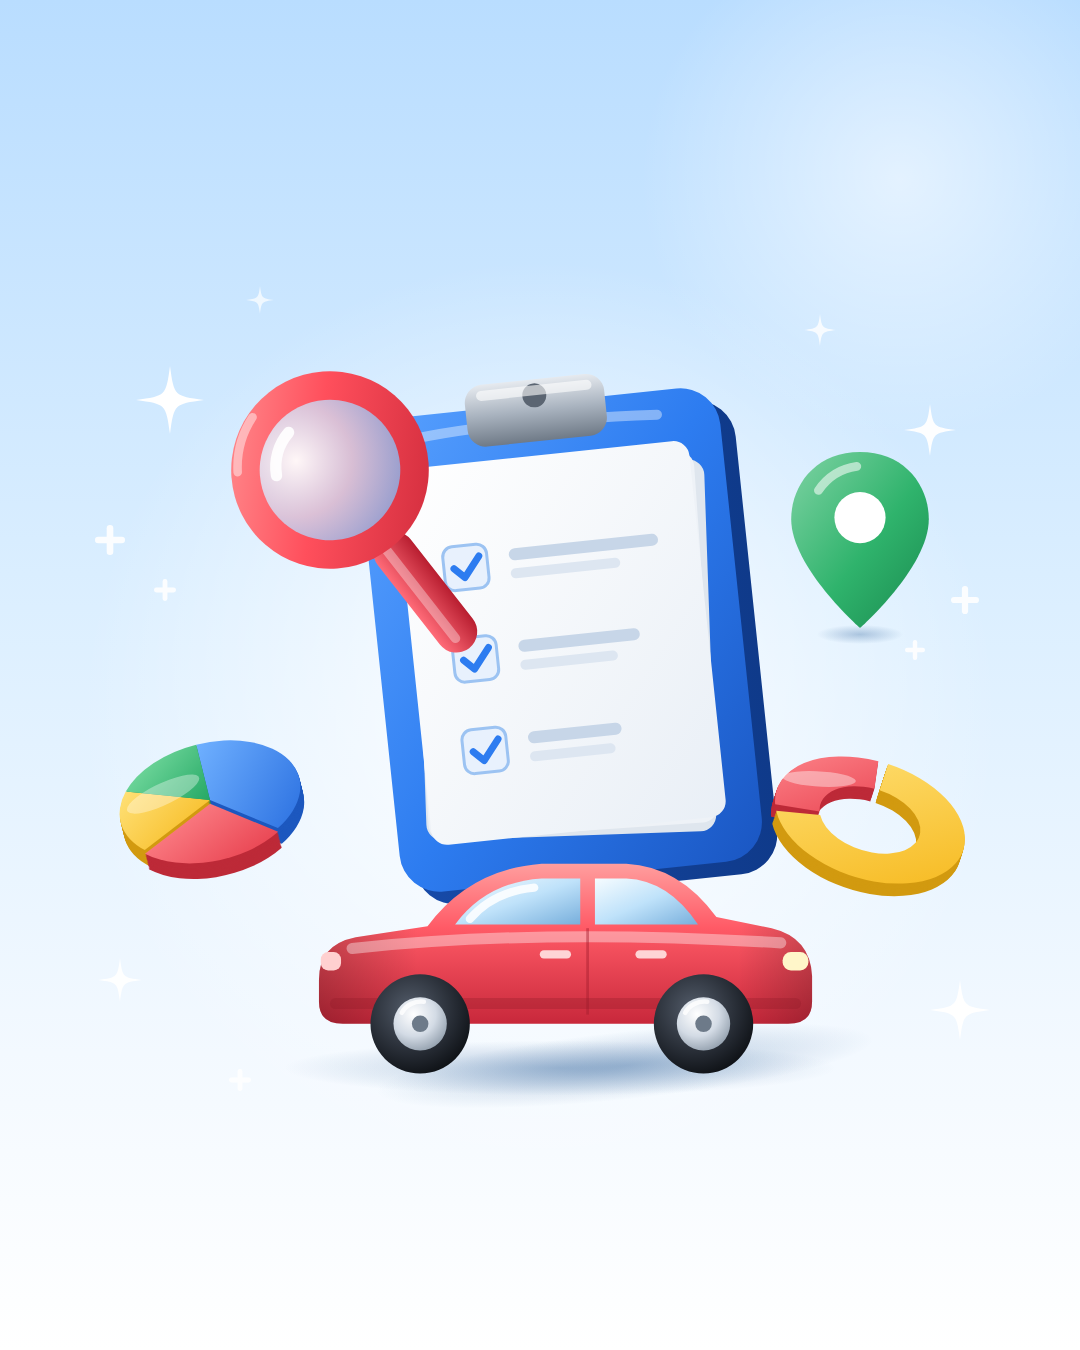
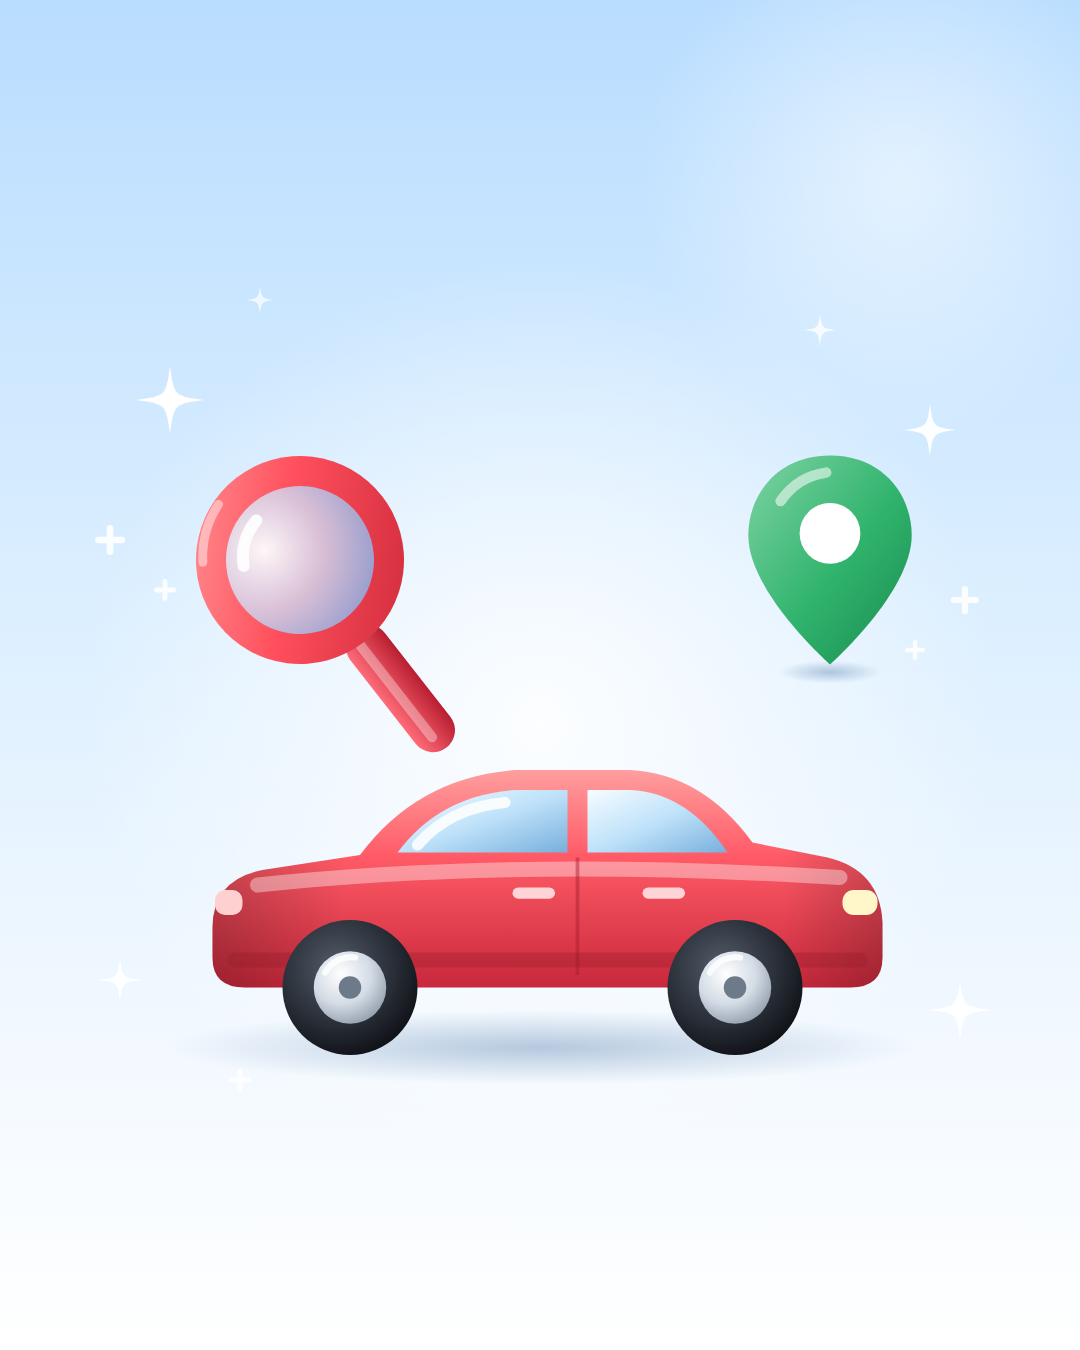
Drop the clipboard and charts from the Instagram background
Claude-Session: https://claude.ai/code/session_01X5FkqyH53P9rnNtyb9SPS8

Changed region(s): [[0.0917, 0.2489, 0.9167, 0.8089]]

diff --git a/insta/bg.html b/insta/bg.html
@@ -45,23 +45,7 @@
 <path d="M0,-34 C4.08,-4.08 4.08,-4.08 34,0 C4.08,4.08 4.08,4.08 0,34 C-4.08,4.08 -4.08,4.08 -34,0 C-4.08,-4.08 -4.08,-4.08 0,-34 Z" fill="#fff" opacity="1" transform="translate(170 400)"/><path d="M0,-26 C3.12,-3.12 3.12,-3.12 26,0 C3.12,3.12 3.12,3.12 0,26 C-3.12,3.12 -3.12,3.12 -26,0 C-3.12,-3.12 -3.12,-3.12 0,-26 Z" fill="#fff" opacity="0.95" transform="translate(930 430)"/><path d="M0,-22 C2.6399999999999997,-2.6399999999999997 2.6399999999999997,-2.6399999999999997 22,0 C2.6399999999999997,2.6399999999999997 2.6399999999999997,2.6399999999999997 0,22 C-2.6399999999999997,2.6399999999999997 -2.6399999999999997,2.6399999999999997 -22,0 C-2.6399999999999997,-2.6399999999999997 -2.6399999999999997,-2.6399999999999997 0,-22 Z" fill="#fff" opacity="0.9" transform="translate(120 980)"/><path d="M0,-30 C3.5999999999999996,-3.5999999999999996 3.5999999999999996,-3.5999999999999996 30,0 C3.5999999999999996,3.5999999999999996 3.5999999999999996,3.5999999999999996 0,30 C-3.5999999999999996,3.5999999999999996 -3.5999999999999996,3.5999999999999996 -30,0 C-3.5999999999999996,-3.5999999999999996 -3.5999999999999996,-3.5999999999999996 0,-30 Z" fill="#fff" opacity="1" transform="translate(960 1010)"/><path d="M0,-16 C1.92,-1.92 1.92,-1.92 16,0 C1.92,1.92 1.92,1.92 0,16 C-1.92,1.92 -1.92,1.92 -16,0 C-1.92,-1.92 -1.92,-1.92 0,-16 Z" fill="#fff" opacity="0.8" transform="translate(820 330)"/><path d="M0,-14 C1.68,-1.68 1.68,-1.68 14,0 C1.68,1.68 1.68,1.68 0,14 C-1.68,1.68 -1.68,1.68 -14,0 C-1.68,-1.68 -1.68,-1.68 0,-14 Z" fill="#fff" opacity="0.7" transform="translate(260 300)"/>
 <g transform="translate(110 540)" opacity="0.9"><rect x="-15.0" y="-3.3" width="30" height="6.6" rx="3.3" fill="#fff"/><rect x="-3.3" y="-15.0" width="6.6" height="30" rx="3.3" fill="#fff"/></g><g transform="translate(165 590)" opacity="0.9"><rect x="-11.0" y="-2.4" width="22" height="4.8" rx="2.4" fill="#fff"/><rect x="-2.4" y="-11.0" width="4.8" height="22" rx="2.4" fill="#fff"/></g><g transform="translate(965 600)" opacity="0.9"><rect x="-14.0" y="-3.1" width="28" height="6.2" rx="3.1" fill="#fff"/><rect x="-3.1" y="-14.0" width="6.2" height="28" rx="3.1" fill="#fff"/></g><g transform="translate(915 650)" opacity="0.9"><rect x="-10.0" y="-2.2" width="20" height="4.4" rx="2.2" fill="#fff"/><rect x="-2.2" y="-10.0" width="4.4" height="20" rx="2.2" fill="#fff"/></g><g transform="translate(240 1080)" opacity="0.9"><rect x="-11.0" y="-2.4" width="22" height="4.8" rx="2.4" fill="#fff"/><rect x="-2.4" y="-11.0" width="4.8" height="22" rx="2.4" fill="#fff"/></g>
 
-<g transform="translate(560 640) rotate(-6)">
-  <ellipse cx="20" cy="430" rx="250" ry="34" fill="url(#dropShadow)"/>
-  <rect x="-182" y="-238" width="364" height="476" rx="40" fill="url(#boardEdge)" transform="translate(14 14)"/>
-  <rect x="-182" y="-238" width="364" height="476" rx="40" fill="url(#board)"/>
-  <path d="M-150,-212 Q-60,-226 120,-214" stroke="#fff" stroke-width="10" stroke-linecap="round" fill="none" opacity="0.4"/>
-  <g transform="rotate(4)"><rect x="-140" y="-176" width="290" height="372" rx="16" fill="#dfe6ee"/></g>
-  <g transform="rotate(2)"><rect x="-144" y="-180" width="290" height="372" rx="16" fill="#eef2f7"/></g>
-  <rect x="-148" y="-186" width="296" height="378" rx="16" fill="url(#paper)"/>
-  <g transform="translate(-108 -104)">
-    <rect x="0" y="0" width="44" height="44" rx="10" fill="#e8f1fd" stroke="#9cc3f2" stroke-width="3"/><path d="M10,22 L20,32 L36,12" stroke="#2d7cf0" stroke-width="7" stroke-linecap="round" stroke-linejoin="round" fill="none"/><rect x="66" y="8" width="150" height="12" rx="6" fill="#c7d6e8"/><rect x="66" y="28" width="110" height="10" rx="5" fill="#dde6f1"/><rect x="0" y="92" width="44" height="44" rx="10" fill="#e8f1fd" stroke="#9cc3f2" stroke-width="3"/><path d="M10,114 L20,124 L36,104" stroke="#2d7cf0" stroke-width="7" stroke-linecap="round" stroke-linejoin="round" fill="none"/><rect x="66" y="100" width="122" height="12" rx="6" fill="#c7d6e8"/><rect x="66" y="120" width="98" height="10" rx="5" fill="#dde6f1"/><rect x="0" y="184" width="44" height="44" rx="10" fill="#e8f1fd" stroke="#9cc3f2" stroke-width="3"/><path d="M10,206 L20,216 L36,196" stroke="#2d7cf0" stroke-width="7" stroke-linecap="round" stroke-linejoin="round" fill="none"/><rect x="66" y="192" width="94" height="12" rx="6" fill="#c7d6e8"/><rect x="66" y="212" width="86" height="10" rx="5" fill="#dde6f1"/>
-  </g>
-  <rect x="-70" y="-262" width="140" height="62" rx="18" fill="url(#clip)"/>
-  <circle cx="0" cy="-246" r="12" fill="#5b6572"/>
-  <rect x="-58" y="-256" width="116" height="10" rx="5" fill="#fff" opacity="0.6"/>
-</g>
-
-<g transform="translate(330 470) rotate(-38) scale(0.95)">
+<g transform="translate(300 560) rotate(-38) scale(1.0)">
   <rect x="-22" y="88" width="44" height="150" rx="22" fill="url(#handle)"/>
   <rect x="-10" y="96" width="10" height="130" rx="5" fill="#fff" opacity="0.35"/>
   <circle r="104" fill="url(#ringRed)"/>
@@ -69,101 +53,15 @@
   <path d="M-48,-30 A56,56 0 0 1 -10,-58" stroke="#fff" stroke-width="12" stroke-linecap="round" fill="none" opacity="0.9"/>
   <path d="M-78,-58 A96,96 0 0 1 -30,-94" stroke="#fff" stroke-width="9" stroke-linecap="round" fill="none" opacity="0.45"/>
 </g>
-<g transform="translate(210 800) rotate(-14) scale(1 0.62)">
-<path d="M0.0,26.0 L0.0,-66.0 A92,92 0 0 1 59.1,96.5 Z" fill="#1d58bf"/>
-<path d="M-0.7831571533203097,31.948669168242862 L58.4,102.4 A92,92 0 0 1 -76.1,84.7 Z" fill="#bd2a38"/>
-<path d="M-0.0,26.0 L-75.4,78.8 A92,92 0 0 1 -79.7,-20.0 Z" fill="#d29a10"/>
-<path d="M-0.0,26.0 L-79.7,-20.0 A92,92 0 0 1 -0.0,-66.0 Z" fill="#1c8a52"/>
-<path d="M0.0,24.0 L0.0,-68.0 A92,92 0 0 1 59.1,94.5 Z" fill="#1d58bf"/>
-<path d="M-0.7831571533203097,29.948669168242862 L58.4,100.4 A92,92 0 0 1 -76.1,82.7 Z" fill="#bd2a38"/>
-<path d="M-0.0,24.0 L-75.4,76.8 A92,92 0 0 1 -79.7,-22.0 Z" fill="#d29a10"/>
-<path d="M-0.0,24.0 L-79.7,-22.0 A92,92 0 0 1 -0.0,-68.0 Z" fill="#1c8a52"/>
-<path d="M0.0,22.0 L0.0,-70.0 A92,92 0 0 1 59.1,92.5 Z" fill="#1d58bf"/>
-<path d="M-0.7831571533203097,27.948669168242862 L58.4,98.4 A92,92 0 0 1 -76.1,80.7 Z" fill="#bd2a38"/>
-<path d="M-0.0,22.0 L-75.4,74.8 A92,92 0 0 1 -79.7,-24.0 Z" fill="#d29a10"/>
-<path d="M-0.0,22.0 L-79.7,-24.0 A92,92 0 0 1 -0.0,-70.0 Z" fill="#1c8a52"/>
-<path d="M0.0,20.0 L0.0,-72.0 A92,92 0 0 1 59.1,90.5 Z" fill="#1d58bf"/>
-<path d="M-0.7831571533203097,25.948669168242862 L58.4,96.4 A92,92 0 0 1 -76.1,78.7 Z" fill="#bd2a38"/>
-<path d="M-0.0,20.0 L-75.4,72.8 A92,92 0 0 1 -79.7,-26.0 Z" fill="#d29a10"/>
-<path d="M-0.0,20.0 L-79.7,-26.0 A92,92 0 0 1 -0.0,-72.0 Z" fill="#1c8a52"/>
-<path d="M0.0,18.0 L0.0,-74.0 A92,92 0 0 1 59.1,88.5 Z" fill="#1d58bf"/>
-<path d="M-0.7831571533203097,23.948669168242862 L58.4,94.4 A92,92 0 0 1 -76.1,76.7 Z" fill="#bd2a38"/>
-<path d="M-0.0,18.0 L-75.4,70.8 A92,92 0 0 1 -79.7,-28.0 Z" fill="#d29a10"/>
-<path d="M-0.0,18.0 L-79.7,-28.0 A92,92 0 0 1 -0.0,-74.0 Z" fill="#1c8a52"/>
-<path d="M0.0,16.0 L0.0,-76.0 A92,92 0 0 1 59.1,86.5 Z" fill="#1d58bf"/>
-<path d="M-0.7831571533203097,21.948669168242862 L58.4,92.4 A92,92 0 0 1 -76.1,74.7 Z" fill="#bd2a38"/>
-<path d="M-0.0,16.0 L-75.4,68.8 A92,92 0 0 1 -79.7,-30.0 Z" fill="#d29a10"/>
-<path d="M-0.0,16.0 L-79.7,-30.0 A92,92 0 0 1 -0.0,-76.0 Z" fill="#1c8a52"/>
-<path d="M0.0,14.0 L0.0,-78.0 A92,92 0 0 1 59.1,84.5 Z" fill="#1d58bf"/>
-<path d="M-0.7831571533203097,19.948669168242862 L58.4,90.4 A92,92 0 0 1 -76.1,72.7 Z" fill="#bd2a38"/>
-<path d="M-0.0,14.0 L-75.4,66.8 A92,92 0 0 1 -79.7,-32.0 Z" fill="#d29a10"/>
-<path d="M-0.0,14.0 L-79.7,-32.0 A92,92 0 0 1 -0.0,-78.0 Z" fill="#1c8a52"/>
-<path d="M0.0,12.0 L0.0,-80.0 A92,92 0 0 1 59.1,82.5 Z" fill="#1d58bf"/>
-<path d="M-0.7831571533203097,17.948669168242862 L58.4,88.4 A92,92 0 0 1 -76.1,70.7 Z" fill="#bd2a38"/>
-<path d="M-0.0,12.0 L-75.4,64.8 A92,92 0 0 1 -79.7,-34.0 Z" fill="#d29a10"/>
-<path d="M-0.0,12.0 L-79.7,-34.0 A92,92 0 0 1 -0.0,-80.0 Z" fill="#1c8a52"/>
-<path d="M0.0,10.0 L0.0,-82.0 A92,92 0 0 1 59.1,80.5 Z" fill="#1d58bf"/>
-<path d="M-0.7831571533203097,15.948669168242862 L58.4,86.4 A92,92 0 0 1 -76.1,68.7 Z" fill="#bd2a38"/>
-<path d="M-0.0,10.0 L-75.4,62.8 A92,92 0 0 1 -79.7,-36.0 Z" fill="#d29a10"/>
-<path d="M-0.0,10.0 L-79.7,-36.0 A92,92 0 0 1 -0.0,-82.0 Z" fill="#1c8a52"/>
-<path d="M0.0,8.0 L0.0,-84.0 A92,92 0 0 1 59.1,78.5 Z" fill="#1d58bf"/>
-<path d="M-0.7831571533203097,13.948669168242862 L58.4,84.4 A92,92 0 0 1 -76.1,66.7 Z" fill="#bd2a38"/>
-<path d="M-0.0,8.0 L-75.4,60.8 A92,92 0 0 1 -79.7,-38.0 Z" fill="#d29a10"/>
-<path d="M-0.0,8.0 L-79.7,-38.0 A92,92 0 0 1 -0.0,-84.0 Z" fill="#1c8a52"/>
-<path d="M0.0,6.0 L0.0,-86.0 A92,92 0 0 1 59.1,76.5 Z" fill="#1d58bf"/>
-<path d="M-0.7831571533203097,11.948669168242862 L58.4,82.4 A92,92 0 0 1 -76.1,64.7 Z" fill="#bd2a38"/>
-<path d="M-0.0,6.0 L-75.4,58.8 A92,92 0 0 1 -79.7,-40.0 Z" fill="#d29a10"/>
-<path d="M-0.0,6.0 L-79.7,-40.0 A92,92 0 0 1 -0.0,-86.0 Z" fill="#1c8a52"/>
-<path d="M0.0,4.0 L0.0,-88.0 A92,92 0 0 1 59.1,74.5 Z" fill="#1d58bf"/>
-<path d="M-0.7831571533203097,9.948669168242862 L58.4,80.4 A92,92 0 0 1 -76.1,62.7 Z" fill="#bd2a38"/>
-<path d="M-0.0,4.0 L-75.4,56.8 A92,92 0 0 1 -79.7,-42.0 Z" fill="#d29a10"/>
-<path d="M-0.0,4.0 L-79.7,-42.0 A92,92 0 0 1 -0.0,-88.0 Z" fill="#1c8a52"/>
-<path d="M0.0,2.0 L0.0,-90.0 A92,92 0 0 1 59.1,72.5 Z" fill="#1d58bf"/>
-<path d="M-0.7831571533203097,7.948669168242862 L58.4,78.4 A92,92 0 0 1 -76.1,60.7 Z" fill="#bd2a38"/>
-<path d="M-0.0,2.0 L-75.4,54.8 A92,92 0 0 1 -79.7,-44.0 Z" fill="#d29a10"/>
-<path d="M-0.0,2.0 L-79.7,-44.0 A92,92 0 0 1 -0.0,-90.0 Z" fill="#1c8a52"/>
-<path d="M0.0,-0.0 L0.0,-92.0 A92,92 0 0 1 59.1,70.5 Z" fill="url(#pBlue)"/>
-<path d="M-0.7831571533203097,5.948669168242862 L58.4,76.4 A92,92 0 0 1 -76.1,58.7 Z" fill="url(#pRed)"/>
-<path d="M-0.0,0.0 L-75.4,52.8 A92,92 0 0 1 -79.7,-46.0 Z" fill="url(#pYellow)"/>
-<path d="M-0.0,-0.0 L-79.7,-46.0 A92,92 0 0 1 -0.0,-92.0 Z" fill="url(#pGreen)"/>
-<ellipse cx="-32" cy="-41" rx="41" ry="17" fill="#fff" opacity="0.35" transform="rotate(-20)"/>
-</g>
-<g transform="translate(870 820) rotate(18) scale(1 0.6)">
-<path d="M0.0,-76.0 A98,98 0 1 1 -92.1,55.5 L-48.9,39.8 A52,52 0 1 0 0.0,-30.0 Z" fill="#d29a10"/>
-<path d="M-95.1,45.7 A98,98 0 0 1 -10.2,-75.5 L-5.4,-29.7 A52,52 0 0 0 -50.5,34.6 Z" fill="#bd2a38"/>
-<path d="M0.0,-78.0 A98,98 0 1 1 -92.1,53.5 L-48.9,37.8 A52,52 0 1 0 0.0,-32.0 Z" fill="#d29a10"/>
-<path d="M-95.1,43.7 A98,98 0 0 1 -10.2,-77.5 L-5.4,-31.7 A52,52 0 0 0 -50.5,32.6 Z" fill="#bd2a38"/>
-<path d="M0.0,-80.0 A98,98 0 1 1 -92.1,51.5 L-48.9,35.8 A52,52 0 1 0 0.0,-34.0 Z" fill="#d29a10"/>
-<path d="M-95.1,41.7 A98,98 0 0 1 -10.2,-79.5 L-5.4,-33.7 A52,52 0 0 0 -50.5,30.6 Z" fill="#bd2a38"/>
-<path d="M0.0,-82.0 A98,98 0 1 1 -92.1,49.5 L-48.9,33.8 A52,52 0 1 0 0.0,-36.0 Z" fill="#d29a10"/>
-<path d="M-95.1,39.7 A98,98 0 0 1 -10.2,-81.5 L-5.4,-35.7 A52,52 0 0 0 -50.5,28.6 Z" fill="#bd2a38"/>
-<path d="M0.0,-84.0 A98,98 0 1 1 -92.1,47.5 L-48.9,31.8 A52,52 0 1 0 0.0,-38.0 Z" fill="#d29a10"/>
-<path d="M-95.1,37.7 A98,98 0 0 1 -10.2,-83.5 L-5.4,-37.7 A52,52 0 0 0 -50.5,26.6 Z" fill="#bd2a38"/>
-<path d="M0.0,-86.0 A98,98 0 1 1 -92.1,45.5 L-48.9,29.8 A52,52 0 1 0 0.0,-40.0 Z" fill="#d29a10"/>
-<path d="M-95.1,35.7 A98,98 0 0 1 -10.2,-85.5 L-5.4,-39.7 A52,52 0 0 0 -50.5,24.6 Z" fill="#bd2a38"/>
-<path d="M0.0,-88.0 A98,98 0 1 1 -92.1,43.5 L-48.9,27.8 A52,52 0 1 0 0.0,-42.0 Z" fill="#d29a10"/>
-<path d="M-95.1,33.7 A98,98 0 0 1 -10.2,-87.5 L-5.4,-41.7 A52,52 0 0 0 -50.5,22.6 Z" fill="#bd2a38"/>
-<path d="M0.0,-90.0 A98,98 0 1 1 -92.1,41.5 L-48.9,25.8 A52,52 0 1 0 0.0,-44.0 Z" fill="#d29a10"/>
-<path d="M-95.1,31.7 A98,98 0 0 1 -10.2,-89.5 L-5.4,-43.7 A52,52 0 0 0 -50.5,20.6 Z" fill="#bd2a38"/>
-<path d="M0.0,-92.0 A98,98 0 1 1 -92.1,39.5 L-48.9,23.8 A52,52 0 1 0 0.0,-46.0 Z" fill="#d29a10"/>
-<path d="M-95.1,29.7 A98,98 0 0 1 -10.2,-91.5 L-5.4,-45.7 A52,52 0 0 0 -50.5,18.6 Z" fill="#bd2a38"/>
-<path d="M0.0,-94.0 A98,98 0 1 1 -92.1,37.5 L-48.9,21.8 A52,52 0 1 0 0.0,-48.0 Z" fill="#d29a10"/>
-<path d="M-95.1,27.7 A98,98 0 0 1 -10.2,-93.5 L-5.4,-47.7 A52,52 0 0 0 -50.5,16.6 Z" fill="#bd2a38"/>
-<path d="M0.0,-96.0 A98,98 0 1 1 -92.1,35.5 L-48.9,19.8 A52,52 0 1 0 0.0,-50.0 Z" fill="#d29a10"/>
-<path d="M-95.1,25.7 A98,98 0 0 1 -10.2,-95.5 L-5.4,-49.7 A52,52 0 0 0 -50.5,14.6 Z" fill="#bd2a38"/>
-<path d="M0.0,-98.0 A98,98 0 1 1 -92.1,33.5 L-48.9,17.8 A52,52 0 1 0 0.0,-52.0 Z" fill="url(#pYellow)"/>
-<path d="M-95.1,23.7 A98,98 0 0 1 -10.2,-97.5 L-5.4,-51.7 A52,52 0 0 0 -50.5,12.6 Z" fill="url(#pRed)"/>
-<ellipse cx="-39" cy="-61" rx="39" ry="12" fill="#fff" opacity="0.4" transform="rotate(-25)"/>
-</g>
 
-<g transform="translate(860 540) scale(0.8)">
+<g transform="translate(830 560) scale(0.95)">
   <ellipse cx="0" cy="118" rx="54" ry="12" fill="url(#dropShadow)"/>
   <path d="M0,-110 C-56,-110 -86,-68 -86,-26 C-86,34 0,110 0,110 C0,110 86,34 86,-26 C86,-68 56,-110 0,-110 Z" fill="url(#pin)"/>
   <circle cx="0" cy="-28" r="32" fill="#fff"/>
   <path d="M-52,-62 Q-34,-88 -4,-92" stroke="#fff" stroke-width="11" stroke-linecap="round" fill="none" opacity="0.55"/>
 </g>
 
-<g transform="translate(560 930) scale(0.92)">
+<g transform="translate(540 860) scale(1.25)">
   <ellipse cx="0" cy="150" rx="300" ry="30" fill="url(#dropShadow)"/>
   <path d="M-262,54 Q-262,16 -222,8 L-144,-4 Q-98,-66 -20,-72 L72,-72 Q130,-69 170,-14 L230,-2 Q272,8 274,50 L274,78 Q274,102 248,102 L-236,102 Q-262,102 -262,78 Z" fill="url(#carBody)"/>
   <path d="M-262,54 Q-262,16 -222,8 L-144,-4 Q-98,-66 -20,-72 L72,-72 Q130,-69 170,-14 L230,-2 Q272,8 274,50 L274,78 Q274,102 248,102 L-236,102 Q-262,102 -262,78 Z" fill="url(#carSide)"/>

diff --git a/insta/make_bg.py b/insta/make_bg.py
@@ -178,12 +178,9 @@ svg = f"""<svg xmlns="http://www.w3.org/2000/svg" viewBox="0 0 {W} {H}" width="{
 <circle cx="900" cy="180" r="260" fill="url(#glow)" opacity="0.6"/>
 {''.join(sparkle(x, y, s, o) for x, y, s, o in [(170, 400, 34, 1), (930, 430, 26, 0.95), (120, 980, 22, 0.9), (960, 1010, 30, 1), (820, 330, 16, 0.8), (260, 300, 14, 0.7)])}
 {''.join(plus(x, y, s) for x, y, s in [(110, 540, 30), (165, 590, 22), (965, 600, 28), (915, 650, 20), (240, 1080, 22)])}
-{clipboard(560, 640)}
-{magnifier(330, 470, -38, 0.95)}
-{pie3d(210, 800, 92, [(0, 140, 'pBlue', '#1d58bf', 0), (140, 235, 'pRed', '#bd2a38', 6), (235, 300, 'pYellow', '#d29a10', 0), (300, 360, 'pGreen', '#1c8a52', 0)])}
-{donut3d(870, 820, 98, 46, 'pYellow', 'pRed', '#d29a10', '#bd2a38')}
-{pin(860, 540, 0.8)}
-{car(560, 930, 0.92)}
+{magnifier(300, 560, -38, 1.0)}
+{pin(830, 560, 0.95)}
+{car(540, 860, 1.25)}
 </svg>"""
 
 html = f"""<!doctype html><html><head><meta charset="utf-8"><title>배경</title>
